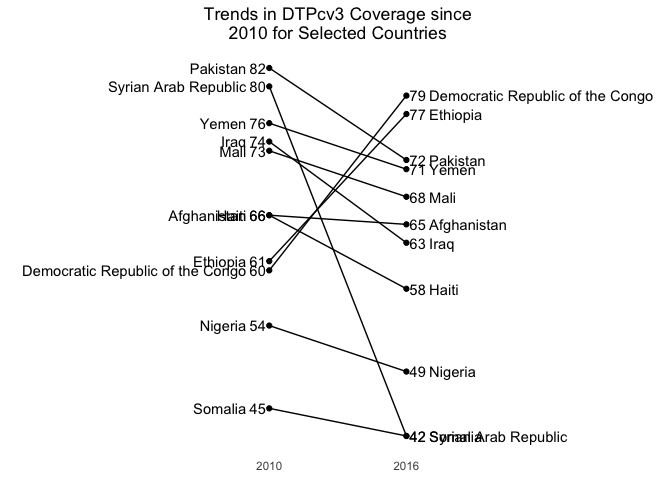
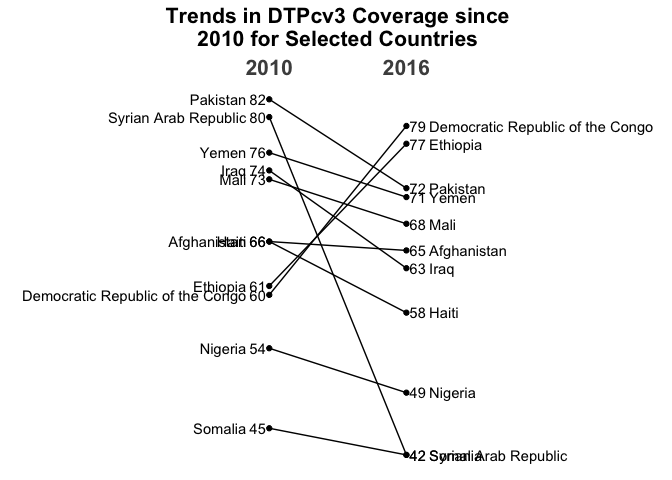
fix deletions

diff --git a/who.md b/who.md
@@ -382,12 +382,24 @@ data %>%
     hjust = 0,
     data = filter(data, year == 2016)
   ) +
-  scale_x_continuous(breaks = c(2010, 2016), limits = c(2000, 2026)) +
+  scale_x_continuous(
+    breaks = c(2010, 2016), 
+    limits = c(2000, 2026),
+    position = "top"
+  ) +
   theme_minimal() +
   theme(
     panel.grid = element_blank(),
     axis.text.y = element_blank(),
-    plot.title = element_text(hjust = 0.5)
+    axis.text.x = element_text(
+      size = 16,
+      face = "bold"
+    ),
+    plot.title = element_text(
+      size = 16,
+      face = "bold",
+      hjust = 0.5
+    )
   ) +
   labs(
     x = NULL,
